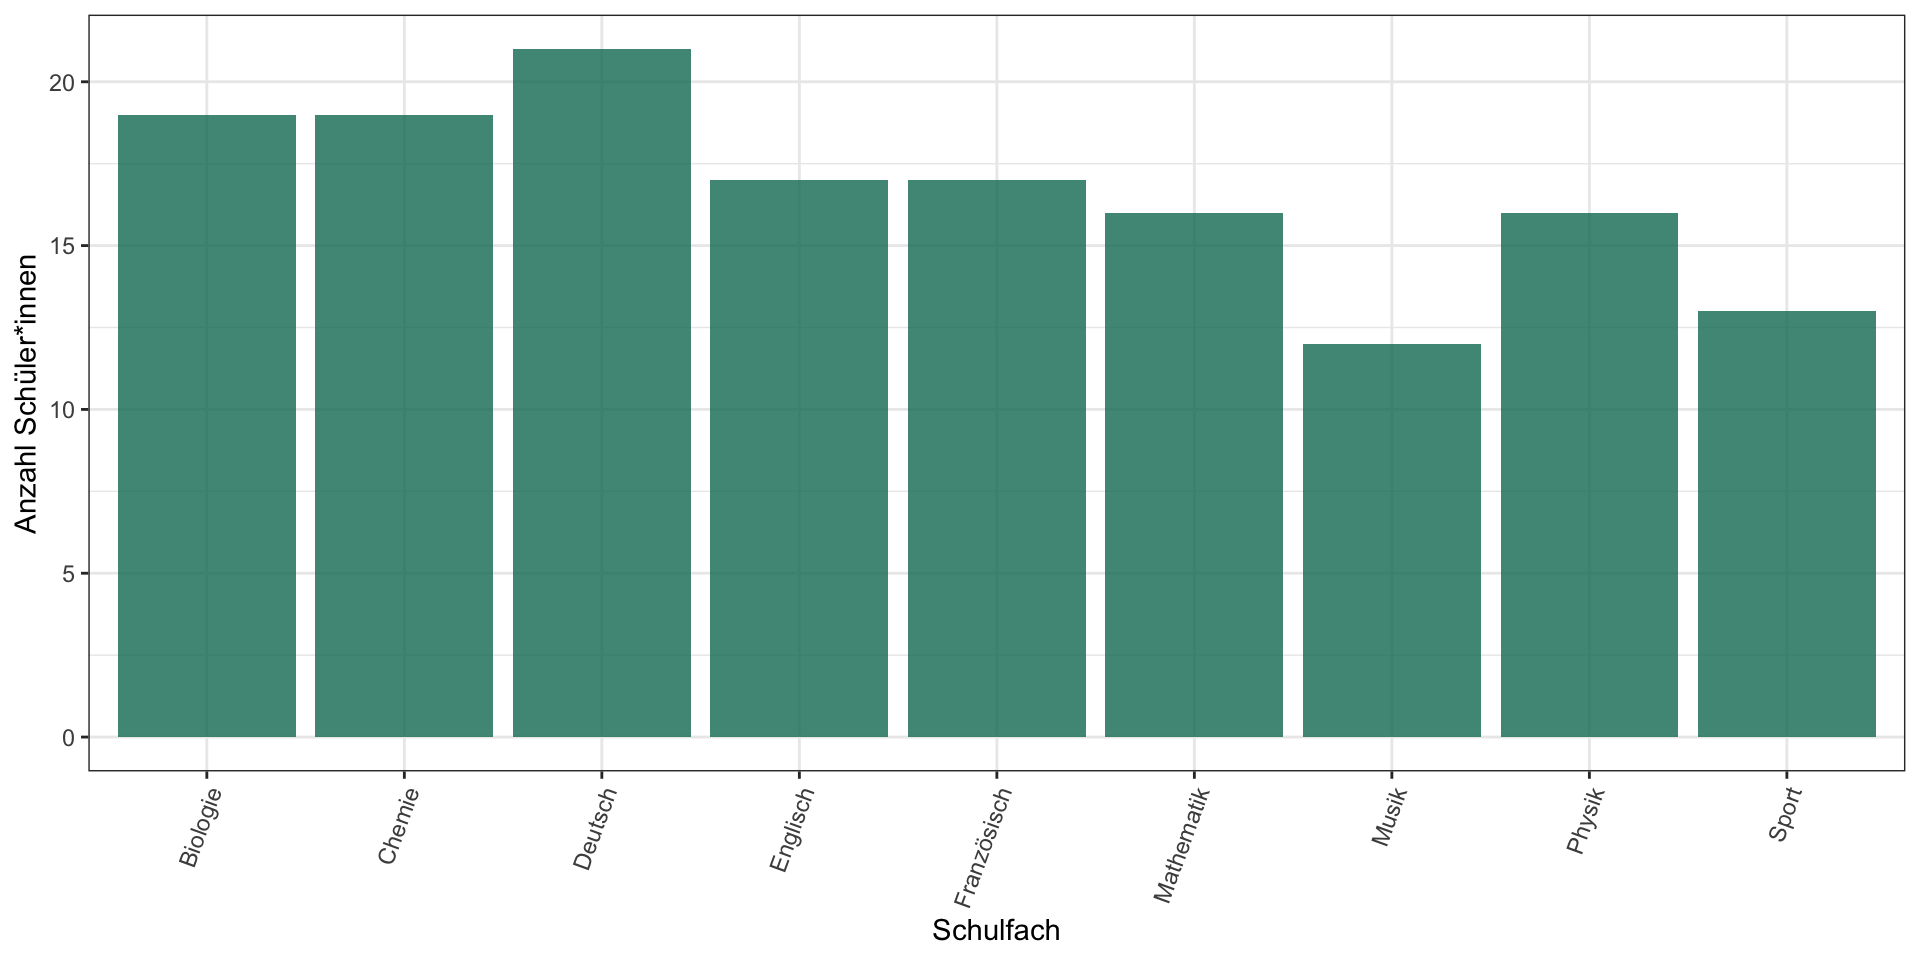
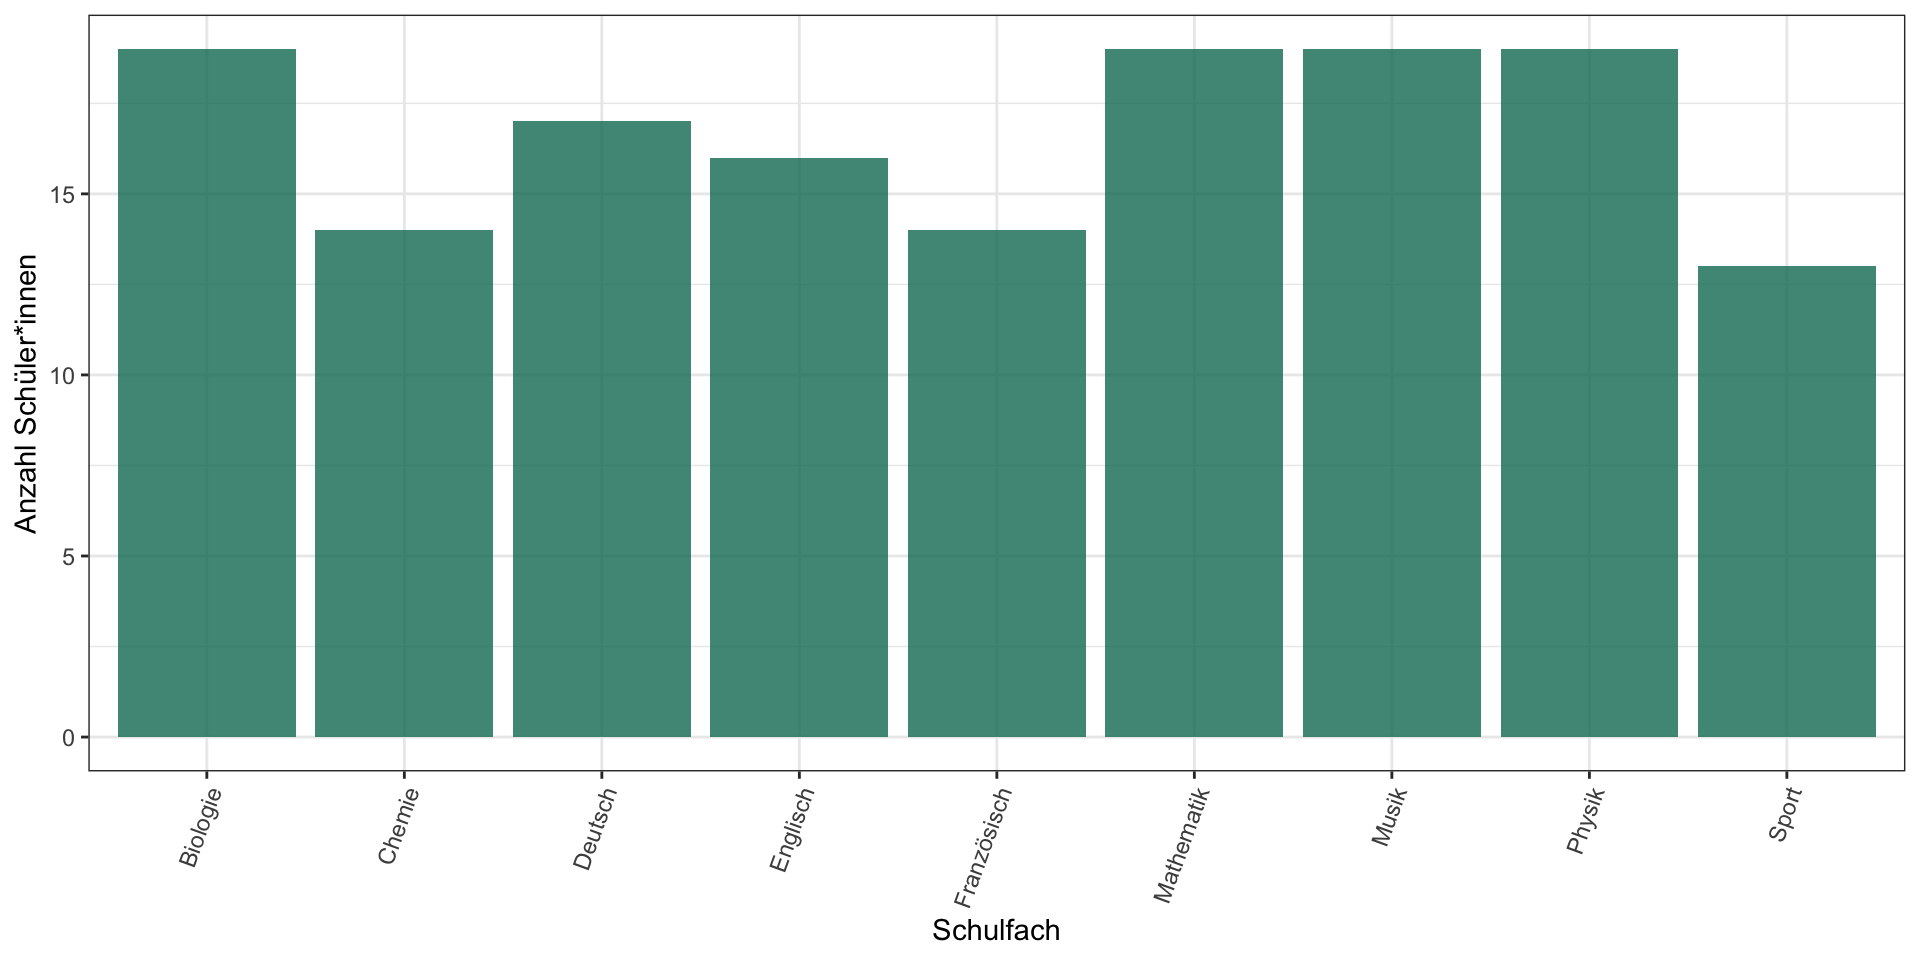
reading w5

diff --git a/docs/Sitzung_3.html b/docs/Sitzung_3.html
@@ -270,106 +270,106 @@ Eva Scheel
 <div class="cell">
 <div class="cell-output cell-output-stdout">
 <pre><code>    groesse_cm
-1        147.0
-2        146.3
-3        130.4
-4        144.6
-5        134.0
-6        138.0
-7        141.8
-8        154.4
-9        141.1
-10       138.7
-11       126.8
-12       136.0
-13       140.5
-14       137.4
-15       125.0
-16       140.9
-17       148.0
-18       154.3
-19       120.4
-20       115.3
-21       137.8
-22       140.5
-23       132.2
-24       152.7
-25       137.9
-26       147.1
-27       126.3
-28       144.3
-29       136.0
-30       137.9
-31       145.3
-32       137.6
-33       134.9
-34       139.1
-35       133.0
-36       137.3
-37       135.0
-38       144.7
-39       132.0
-40       139.9
-41       151.9
-42       132.4
-43       140.9
-44       142.0
-45       131.0
-46       136.7
-47       130.0
-48       146.0
-49       132.4
-50       124.9
-51       147.8
-52       123.1
-53       133.2
-54       143.6
-55       139.1
-56       129.3
-57       137.7
-58       166.9
-59       137.6
-60       134.0
-61       149.3
-62       128.4
-63       148.5
-64       136.9
-65       141.8
-66       145.7
-67       140.8
-68       141.6
-69       137.3
-70       155.6
-71       131.3
-72       139.6
-73       150.4
-74       136.1
-75       125.6
-76       137.3
-77       135.2
-78       134.1
-79       150.2
-80       143.6
-81       111.4
-82       145.1
-83       142.7
-84       142.4
-85       140.4
-86       135.6
-87       145.4
-88       147.2
-89       147.9
-90       148.5
-91       146.9
-92       127.6
-93       134.9
-94       150.6
-95       128.5
-96       132.0
-97       131.2
-98       140.0
-99       137.8
-100      135.2</code></pre>
+1        116.3
+2        131.6
+3        153.5
+4        149.4
+5        145.0
+6        136.6
+7        133.3
+8        141.7
+9        132.1
+10       139.3
+11       137.8
+12       132.4
+13       142.2
+14       154.7
+15       123.9
+16       136.9
+17       150.6
+18       142.2
+19       151.9
+20       145.6
+21       152.1
+22       138.5
+23       143.6
+24       139.2
+25       157.6
+26       127.1
+27       133.8
+28       139.3
+29       144.6
+30       130.6
+31       145.1
+32       156.4
+33       134.0
+34       149.0
+35       137.1
+36       133.7
+37       135.5
+38       135.1
+39       148.1
+40       135.9
+41       139.4
+42       145.4
+43       142.8
+44       130.6
+45       149.0
+46       137.5
+47       149.8
+48       125.9
+49       138.4
+50       145.2
+51       119.7
+52       128.4
+53       138.9
+54       142.3
+55       145.4
+56       115.5
+57       141.6
+58       140.9
+59       147.0
+60       144.8
+61       141.9
+62       137.6
+63       146.0
+64       140.7
+65       139.1
+66       152.7
+67       141.0
+68       150.1
+69       136.1
+70       124.9
+71       131.5
+72       145.2
+73       132.7
+74       125.0
+75       123.4
+76       129.6
+77       135.9
+78       147.1
+79       136.2
+80       145.4
+81       152.7
+82       155.9
+83       144.8
+84       128.4
+85       135.4
+86       132.8
+87       138.0
+88       133.3
+89       120.8
+90       133.0
+91       140.9
+92       170.2
+93       136.6
+94       144.3
+95       145.4
+96       147.0
+97       122.2
+98       137.2
+99       154.6
+100      153.0</code></pre>
 </div>
 </div>
 </div><div class="column">
@@ -378,10 +378,10 @@ Eva Scheel
 <pre><code>[1] "Anzahl Schüler:innen: 100"</code></pre>
 </div>
 <div class="cell-output cell-output-stdout">
-<pre><code>[1] "Höchstwert: 111.4"</code></pre>
+<pre><code>[1] "Höchstwert: 115.5"</code></pre>
 </div>
 <div class="cell-output cell-output-stdout">
-<pre><code>[1] "Tiefstwert: 166.9"</code></pre>
+<pre><code>[1] "Tiefstwert: 170.2"</code></pre>
 </div>
 </div>
 </div></div>
@@ -394,7 +394,7 @@ Eva Scheel
 <div class="cell">
 <div class="code-copy-outer-scaffold"><div class="sourceCode cell-code" id="cb5"><pre class="sourceCode numberSource r number-lines code-with-copy"><code class="sourceCode r"><span id="cb5-1"><a></a><span class="fu">mean</span>(heights<span class="sc">$</span>groesse_cm)</span></code></pre></div><button title="Copy to Clipboard" class="code-copy-button"><i class="bi"></i></button></div>
 <div class="cell-output cell-output-stdout">
-<pre><code>[1] 138.735</code></pre>
+<pre><code>[1] 139.704</code></pre>
 </div>
 </div>
 <p>Bezeichnung: <span class="math inline">\(M=`m`\)</span> oder <span class="math inline">\(\bar{x}\)</span></p>
@@ -422,21 +422,21 @@ Eva Scheel
 </div>
 <div class="code-copy-outer-scaffold"><div class="sourceCode cell-code" id="cb9"><pre class="sourceCode numberSource r number-lines code-with-copy"><code class="sourceCode r"><span id="cb9-1"><a></a>sorted_heights</span></code></pre></div><button title="Copy to Clipboard" class="code-copy-button"><i class="bi"></i></button></div>
 <div class="cell-output cell-output-stdout">
-<pre><code>  [1] 111.4 115.3 120.4 123.1 124.9 125.0 125.6 126.3 126.8 127.6 128.4 128.5
- [13] 129.3 130.0 130.4 131.0 131.2 131.3 132.0 132.0 132.2 132.4 132.4 133.0
- [25] 133.2 134.0 134.0 134.1 134.9 134.9 135.0 135.2 135.2 135.6 136.0 136.0
- [37] 136.1 136.7 136.9 137.3 137.3 137.3 137.4 137.6 137.6 137.7 137.8 137.8
- [49] 137.9 137.9 138.0 138.7 139.1 139.1 139.6 139.9 140.0 140.4 140.5 140.5
- [61] 140.8 140.9 140.9 141.1 141.6 141.8 141.8 142.0 142.4 142.7 143.6 143.6
- [73] 144.3 144.6 144.7 145.1 145.3 145.4 145.7 146.0 146.3 146.9 147.0 147.1
- [85] 147.2 147.8 147.9 148.0 148.5 148.5 149.3 150.2 150.4 150.6 151.9 152.7
- [97] 154.3 154.4 155.6 166.9</code></pre>
+<pre><code>  [1] 115.5 116.3 119.7 120.8 122.2 123.4 123.9 124.9 125.0 125.9 127.1 128.4
+ [13] 128.4 129.6 130.6 130.6 131.5 131.6 132.1 132.4 132.7 132.8 133.0 133.3
+ [25] 133.3 133.7 133.8 134.0 135.1 135.4 135.5 135.9 135.9 136.1 136.2 136.6
+ [37] 136.6 136.9 137.1 137.2 137.5 137.6 137.8 138.0 138.4 138.5 138.9 139.1
+ [49] 139.2 139.3 139.3 139.4 140.7 140.9 140.9 141.0 141.6 141.7 141.9 142.2
+ [61] 142.2 142.3 142.8 143.6 144.3 144.6 144.8 144.8 145.0 145.1 145.2 145.2
+ [73] 145.4 145.4 145.4 145.4 145.6 146.0 147.0 147.0 147.1 148.1 149.0 149.0
+ [85] 149.4 149.8 150.1 150.6 151.9 152.1 152.7 152.7 153.0 153.5 154.6 154.7
+ [97] 155.9 156.4 157.6 170.2</code></pre>
 </div>
 </div>
 <div class="cell">
 <div class="code-copy-outer-scaffold"><div class="sourceCode cell-code" id="cb11"><pre class="sourceCode numberSource r number-lines code-with-copy"><code class="sourceCode r"><span id="cb11-1"><a></a><span class="fu">median</span>(heights<span class="sc">$</span>groesse_cm)</span></code></pre></div><button title="Copy to Clipboard" class="code-copy-button"><i class="bi"></i></button></div>
 <div class="cell-output cell-output-stdout">
-<pre><code>[1] 137.95</code></pre>
+<pre><code>[1] 139.3</code></pre>
 </div>
 </div>
 
@@ -463,9 +463,9 @@ Eva Scheel
 <div class="cell-output cell-output-stdout">
 <pre><code>
    Biologie      Chemie     Deutsch    Englisch Französisch  Mathematik 
-         19          19          21          17          17          16 
+         19          14          17          16          14          19 
       Musik      Physik       Sport 
-         12          16          13 </code></pre>
+         19          19          13 </code></pre>
 </div>
 </div>
 <p>Anzahl Schüler:innen pro Hobby:</p>
@@ -473,9 +473,9 @@ Eva Scheel
 <div class="cell-output cell-output-stdout">
 <pre><code>
      Backgammon       Hula_Hoop      Kanufahren Modelleisenbahn         Posaune 
-             36              19              24              18              23 
+             25              31              23              31              14 
    Seilspringen 
-             30 </code></pre>
+             26 </code></pre>
 </div>
 </div>
 <p><span class="absolute" style="font-size: 70%; color: #6f5c7dea; bottom: 10px; ">*Erfundener Datensatz!</span></p>
@@ -495,20 +495,20 @@ Eva Scheel
 <div class="cell-output cell-output-stdout">
 <pre><code>                 
                   Biologie Chemie Deutsch Englisch Französisch Mathematik Musik
-  Backgammon             3      5       9        5           3          4     3
-  Hula_Hoop              4      1       2        1           3          3     0
-  Kanufahren             3      2       4        3           2          2     0
-  Modelleisenbahn        6      3       1        2           4          0     1
-  Posaune                1      4       3        2           3          2     3
-  Seilspringen           2      4       2        4           2          5     5
+  Backgammon             5      0       4        2           2          6     2
+  Hula_Hoop              4      4       1        3           4          3     7
+  Kanufahren             2      2       3        4           1          2     4
+  Modelleisenbahn        4      4       4        2           4          2     3
+  Posaune                0      1       4        0           1          3     2
+  Seilspringen           4      3       1        5           2          3     1
                  
                   Physik Sport
-  Backgammon           2     2
-  Hula_Hoop            4     1
-  Kanufahren           5     3
-  Modelleisenbahn      1     0
-  Posaune              2     3
-  Seilspringen         2     4</code></pre>
+  Backgammon           1     3
+  Hula_Hoop            5     0
+  Kanufahren           3     2
+  Modelleisenbahn      3     5
+  Posaune              1     2
+  Seilspringen         6     1</code></pre>
 </div>
 </div>
 </section>
@@ -735,7 +735,7 @@ SD = \sqrt{\frac{\sum (x-\bar{x})^2}{n-1}}
 </div>
 </div>
 <div class="cell-output cell-output-stdout">
-<pre><code>[1] 28.06136</code></pre>
+<pre><code>[1] 31.01371</code></pre>
 </div>
 </div>
 </div></div>

diff --git a/docs/index.html b/docs/index.html
@@ -201,14 +201,14 @@ div.csl-indent {
 <td>5</td>
 <td>11.11.2026</td>
 <td>Deskriptive Statistik II (<span style="color: #cf1029ea;">ONLINE</span>)</td>
-<td>Kapitel 4 in <span class="citation" data-cites="winterbodo">Winter (<a href="#ref-winterbodo" role="doc-biblioref">2020</a>)</span></td>
+<td>Kapitel 3 in <span class="citation" data-cites="levshinaintro">Levshina (<a href="#ref-levshinaintro" role="doc-biblioref">2015</a>)</span></td>
 <td>AB 2</td>
 </tr>
 <tr class="even">
 <td>6</td>
 <td>18.11.2026</td>
 <td>Lineare Regression</td>
-<td></td>
+<td>Kapitel 4 in <span class="citation" data-cites="winterbodo">Winter (<a href="#ref-winterbodo" role="doc-biblioref">2020</a>)</span></td>
 <td>AB 3</td>
 </tr>
 <tr class="odd">
